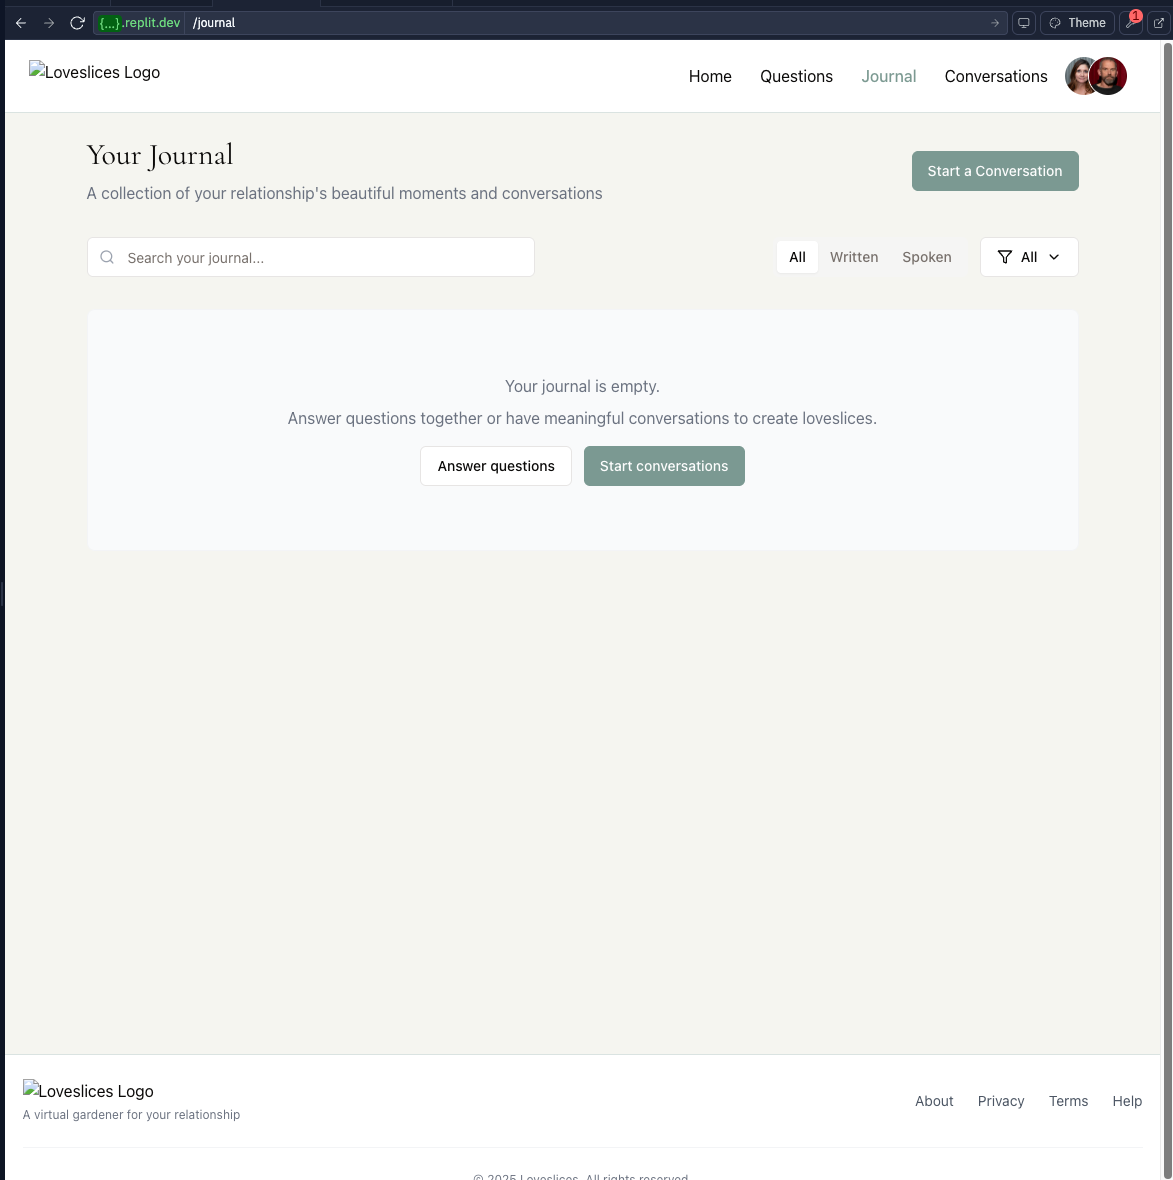
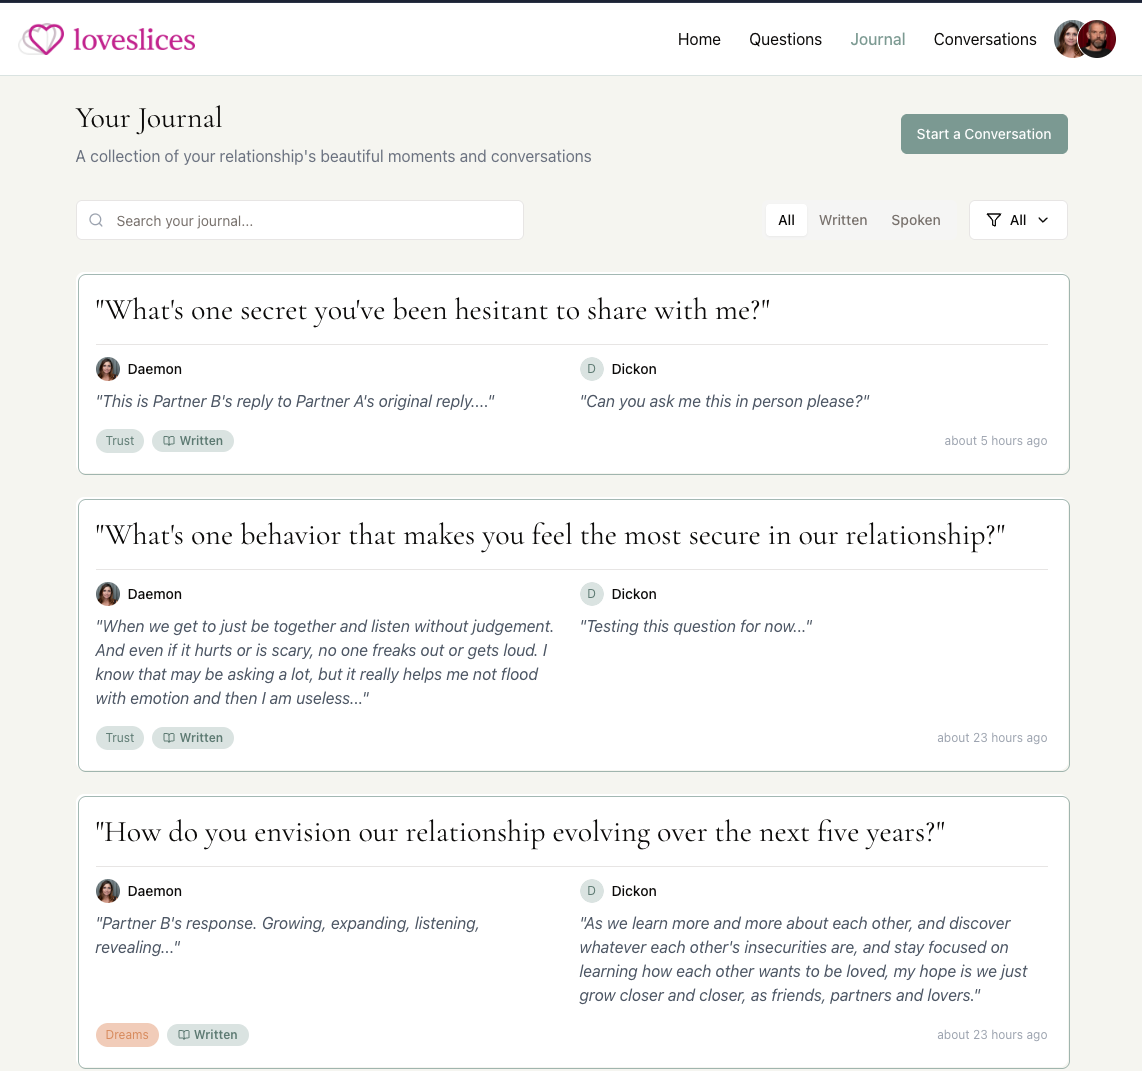
Improve user profile picture handling and conversation data retrieval.
Replit-Commit-Author: Agent
Replit-Commit-Session-Id: 96989300-5b56-458a-9d0c-a45acc23a2b8
Replit-Commit-Screenshot-Url: https://storage.googleapis.com/screenshot-production-us-central1/f510d43b-0e06-4811-9f23-fc2c17d01cea/1ee628ff-7e00-46f8-96a2-7f2b97a2899d.jpg

diff --git a/server/storage.ts b/server/storage.ts
@@ -1260,11 +1260,70 @@ export class DatabaseStorage implements IStorage {
   }
   
   async getConversationsByUserId(userId: number): Promise<Conversation[]> {
-    return db
+    // Get user info to include with conversations
+    const user = await this.getUser(userId);
+    
+    // Simple select to get all conversations for this user
+    const conversationList = await db
       .select()
       .from(conversations)
-      .where(eq(conversations.initiatedByUserId, userId))
+      .where(
+        eq(conversations.initiatedByUserId, userId)
+      )
       .orderBy(desc(conversations.startedAt));
+      
+    // For each conversation, fetch the initiator and partner info
+    const results = await Promise.all(conversationList.map(async (conversation) => {
+      const initiatorId = conversation.initiatedByUserId;
+      const initiator = await this.getUser(initiatorId);
+      
+      const partnerId = initiator?.partnerId;
+      const partner = partnerId ? await this.getUser(partnerId) : null;
+      
+      return {
+        conversation,
+        initiatedBy: initiator ? {
+          id: initiator.id,
+          name: initiator.name,
+          email: initiator.email,
+          profilePicture: initiator.profilePicture
+        } : null,
+        partner: partner ? {
+          id: partner.id,
+          name: partner.name,
+          email: partner.email,
+          profilePicture: partner.profilePicture
+        } : null
+      };
+    }));
+    
+    // Format profile picture paths and return processed conversations
+    return results.map(result => {
+      const conversation = result.conversation;
+      const initiatedBy = result.initiatedBy ? {
+        ...result.initiatedBy,
+        profilePicture: result.initiatedBy.profilePicture ? 
+          (result.initiatedBy.profilePicture.startsWith('/') ? 
+            result.initiatedBy.profilePicture : 
+            `/uploads/profile_pictures/${result.initiatedBy.profilePicture}`) : 
+          null
+      } : null;
+      
+      const partnerInfo = result.partner ? {
+        ...result.partner,
+        profilePicture: result.partner.profilePicture ? 
+          (result.partner.profilePicture.startsWith('/') ? 
+            result.partner.profilePicture : 
+            `/uploads/profile_pictures/${result.partner.profilePicture}`) : 
+          null
+      } : null;
+      
+      return {
+        ...conversation,
+        initiatedBy,
+        partner: partnerInfo
+      };
+    });
   }
   
   async updateConversationOutcome(id: number, outcome: string, durationSeconds: number): Promise<Conversation | undefined> {
@@ -1388,14 +1447,14 @@ export class DatabaseStorage implements IStorage {
     // Process the results to add the properly formatted profile picture path
     return messages.map(result => ({
       ...result.message,
-      user: {
+      user: result.user ? {
         ...result.user,
         profilePicture: result.user.profilePicture ? 
           (result.user.profilePicture.startsWith('/') ? 
             result.user.profilePicture : 
             `/uploads/profile_pictures/${result.user.profilePicture}`) : 
           null
-      }
+      } : null
     }));
   }
   

diff --git a/server/auth.ts b/server/auth.ts
@@ -257,8 +257,16 @@ export function setupAuth(app: Express) {
   app.get("/api/user", (req, res) => {
     if (!req.isAuthenticated()) return res.sendStatus(401);
     
-    // Remove password from response
+    // Remove password from response and ensure profile picture path is formatted
     const { password, ...userWithoutPassword } = req.user;
+    
+    // Format profile picture path if it exists
+    if (userWithoutPassword.profilePicture) {
+      userWithoutPassword.profilePicture = userWithoutPassword.profilePicture.startsWith('/') 
+        ? userWithoutPassword.profilePicture 
+        : `/uploads/profile_pictures/${userWithoutPassword.profilePicture}`;
+    }
+    
     res.json(userWithoutPassword);
   });
   
@@ -275,6 +283,13 @@ export function setupAuth(app: Express) {
       
       // Remove sensitive information from partner data
       const { password, resetToken, resetTokenExpiry, ...safePartnerData } = partner;
+      
+      // Format profile picture path if it exists
+      if (safePartnerData.profilePicture) {
+        safePartnerData.profilePicture = safePartnerData.profilePicture.startsWith('/') 
+          ? safePartnerData.profilePicture 
+          : `/uploads/profile_pictures/${safePartnerData.profilePicture}`;
+      }
       
       res.json(safePartnerData);
     } catch (error) {
